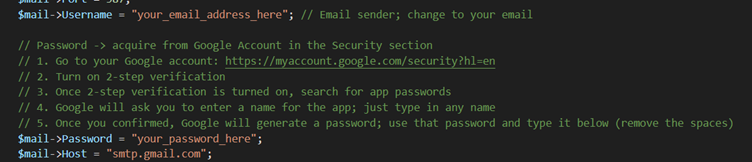
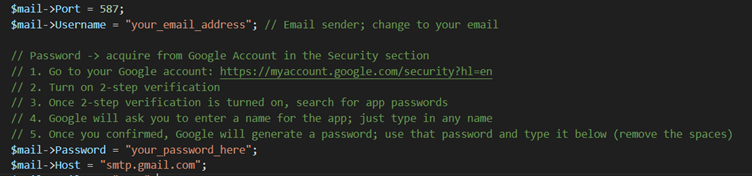
Fix Credentials Leak

Changed region(s): [[0.0, 0.2469, 0.9787, 1.0], [0.0, 0.0, 0.7035, 0.1852]]

diff --git a/mailer.php b/mailer.php
@@ -16,7 +16,7 @@
     $mail->SMTPAuth = TRUE;
     $mail->SMTPSecure = 'tls';
     $mail->Port = 587;
-    $mail->Username = "your_email_address_here"; // Email sender; change to your email
+    $mail->Username = "your_email_address"; // Email sender; change to your email
 
     // Password -> acquire from Google Account in the Security section
     // 1. Go to your Google account: https://myaccount.google.com/security?hl=en
